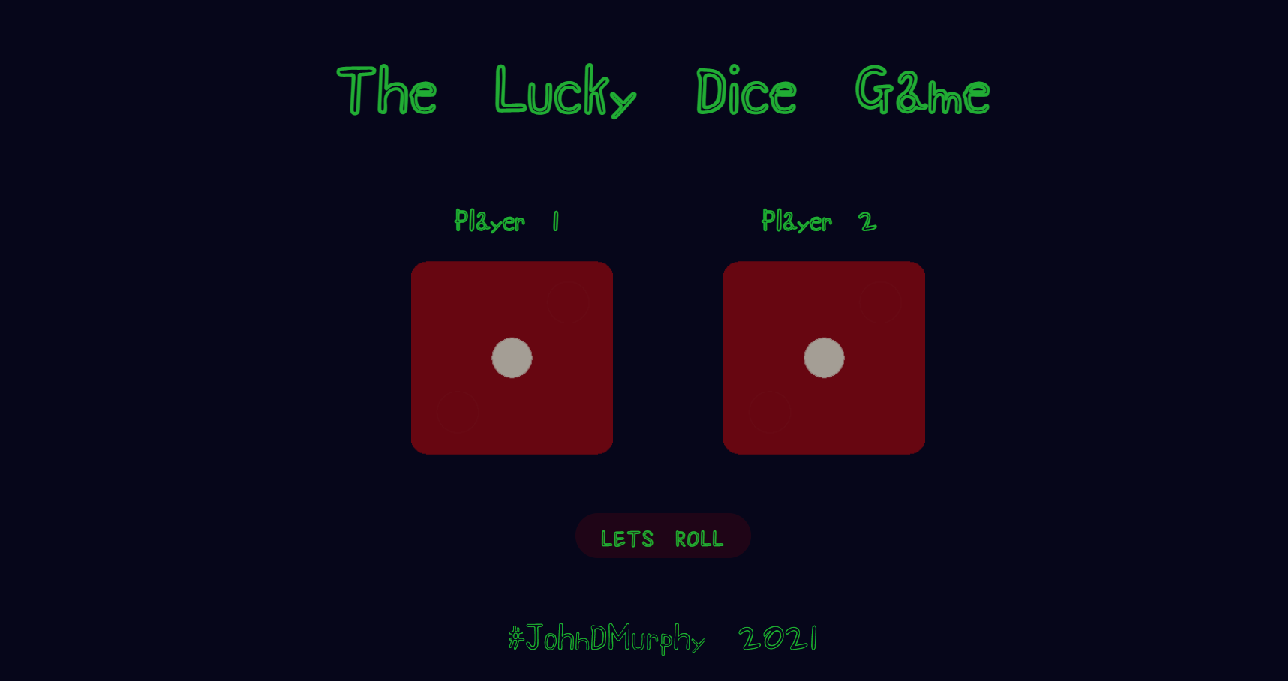
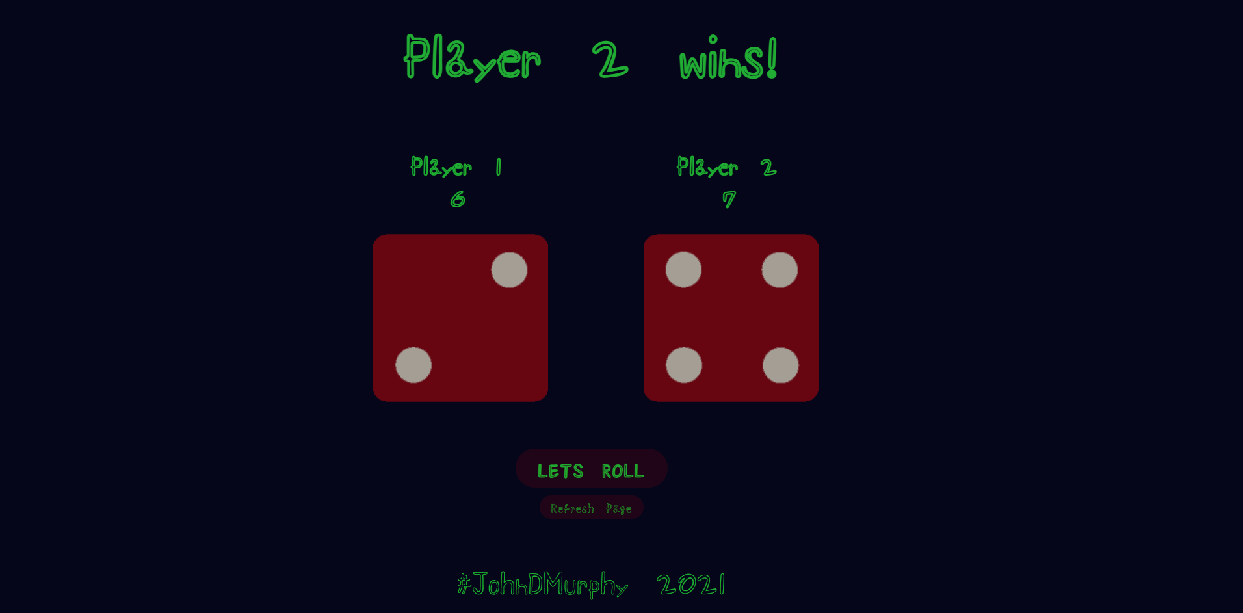
add functionality and update screenshot

diff --git a/script.js b/script.js
@@ -1,0 +1,35 @@
+const button = document.querySelector('.btn');
+const die1 = document.getElementById('die1');
+const die2 = document.getElementById('die2');
+const winner = document.getElementById('title');
+let p1score = document.getElementById('p1score');
+let p2score = document.getElementById('p2score');
+const refresh = document.getElementById('ref');
+
+p1score.innerText = Number(0);
+p2score.innerText = Number(0);
+
+const dieRoll = () => {
+	refresh.style.visibility = 'visible';
+	const dieThrow1 = Math.floor(Math.random() * 6 + 1);
+	const dieThrow2 = Math.floor(Math.random() * 6 + 1);
+	if (dieThrow1 === dieThrow2) {
+		winner.innerText = 'DRAW';
+	} else if (dieThrow1 > dieThrow2) {
+		winner.innerText = 'Player 1 wins!';
+		p1score.innerText++;
+	} else {
+		winner.innerText = 'Player 2 wins!';
+		p2score.innerText++;
+	}
+
+	return (
+		(die1.src = `images/dice${dieThrow1}.png`),
+		(die2.src = `images/dice${dieThrow2}.png`)
+	);
+};
+
+button.addEventListener('click', dieRoll);
+refresh.addEventListener('click', () => {
+	return location.reload();
+});

diff --git a/index.html b/index.html
@@ -18,17 +18,29 @@
 			<section class="header">
 				<h1 id="title">The Lucky Dice Game</h1>
 			</section>
+
 			<section class="main">
 				<div id="box1">
-					<h2>Player 1</h2>
-					<img class="dice die1" src="images/dice1.png" alt="image of a die" />
+					<h2>Player 1 <br /><i id="p2score"></i></h2>
+					<img
+						class="dice"
+						id="die1"
+						src="images/dice1.png"
+						alt="image of a die"
+					/>
 				</div>
 				<div id="box2">
-					<h2>Player 2</h2>
-					<img class="dice die2" src="images/dice1.png" alt="image of a die" />
+					<h2>Player 2 <br /><i id="p1score"></i></h2>
+					<img
+						class="dice"
+						id="die2"
+						src="images/dice1.png"
+						alt="image of a die"
+					/>
 				</div>
 			</section>
 			<button class="btn">LETS ROLL</button>
+			<button class="btn" id="ref">Refresh Page</button>
 			<section class="footer">
 				<p><small>#JohnDMurphy 2021</small></p>
 			</section>

diff --git a/style.css b/style.css
@@ -3,6 +3,7 @@ body {
 	margin: 0;
 	font-size: 1.8rem;
 	font-family: 'Shizuru', cursive;
+	overflow: hidden;
 }
 
 .container {
@@ -48,10 +49,20 @@ img {
 	border: 0;
 	border-radius: 50px 50px 50px 50px;
 	margin-top: 1.8rem;
+	margin-bottom: 0;
 }
 
 .btn:hover {
 	background-color: rgba(255, 0, 0, 0.4);
+}
+
+#ref {
+	font-weight: normal;
+	font-size: 0.6rem;
+	letter-spacing: 1px;
+	padding: 0.2rem 0.6rem;
+	margin-top: 0.4rem;
+	visibility: hidden;
 }
 
 @media only screen and (max-width: 1366px) {
@@ -82,6 +93,6 @@ img {
 	}
 
 	.btn {
-		margin-top: 0.2rem;
+		margin: 0.2rem;
 	}
 }
